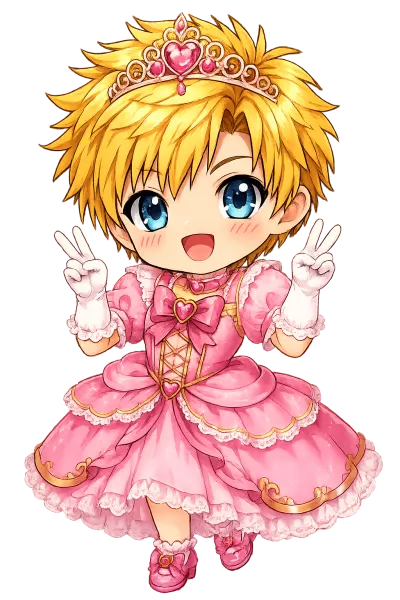
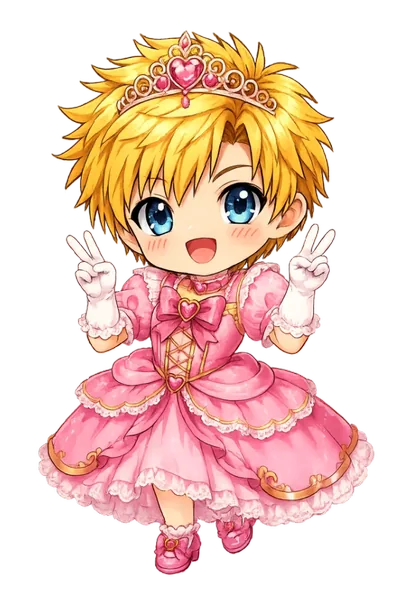
Character art pre-sized onto one 640x960 canvas (scripts/presize-art.mjs, sources and placements in artwork/forms/): the website drops its per-form CSS transforms; the Blobfish now fits inside the canvas (scale 1.1, was 1.18 and spilled past the left edge and top) and gets a 400w size like the other

diff --git a/public/index.html b/public/index.html
@@ -37,8 +37,8 @@
   var file = form === 'princess' ? 'princess-uwu' : form === 'blobfish' ? 'blobfish-mclosed-eopen' : 'tron-' + form + '-mclosed-eopen';
   window.__form = form;
   window.__formSrc = '/assets/img/' + file + '.webp';
-  // character art ships at 400w and 640w (the blobfish only has its native size)
-  window.__srcset = function (src) { return /blobfish/.test(src) ? '' : src.replace('.webp', '-400.webp') + ' 400w, ' + src + ' 640w'; };
+  // character art ships at 400w and 640w, every form pre-sized onto the same canvas (scripts/presize-art.mjs)
+  window.__srcset = function (src) { return src.replace('.webp', '-400.webp') + ' 400w, ' + src + ' 640w'; };
   window.__sizes = '(max-width: 860px) 50vw, 420px';
   var root = document.documentElement, link = document.createElement('link');
   root.classList.add('js');
@@ -233,12 +233,8 @@ h1 .l2::after  { color: #22e5ff; animation: glitch-b 7s infinite steps(1); }
 /* form switch: ~240ms of horizontal slices mixing the old and new character, with a red/cyan split */
 .glitch { position: absolute; inset: 0; display: none; pointer-events: none; }
 .tuber.glitching img { opacity: 0 !important; }
-/* The artwork files aren't drawn at the same scale, so each is nudged to match Tron: Trina fills more of her
-   canvas (scaled down); the blobfish is drawn smaller and sits low and right because its rod and catch take the
-   left of the image. Matched on head width, head top and head centre (measured ignoring the thin rod). */
-.tuber img, .glitch b { transform-origin: 50% 80%; }
-.tuber[data-art="princess"] img { transform: translate(.75%, -1.9%) scale(.937); }
-.tuber[data-art="blobfish"] img { transform: translate(-12.7%, -5.8%) scale(1.18); }
+/* No per-form sizing here: every form's art is pre-sized onto the same 640x960 canvas, matched to Tron's head
+   (scripts/presize-art.mjs, docs/design-system.md "Character sizing"), so any form drops straight in. */
 .tuber.glitching .glitch { display: block; }
 .glitch i { position: absolute; inset: 0; filter: drop-shadow(-3px 0 rgba(255,45,120,.75)) drop-shadow(3px 0 rgba(34,229,255,.75)); }
 .glitch b { position: absolute; inset: 0; background: no-repeat 50% 80% / contain; }
@@ -545,7 +541,7 @@ footer { position: relative; margin-top: 3rem; border-top: 1px solid var(--a20);
         <div class="pad" aria-hidden="true"></div>
         <button class="tuber s-co" id="tuber" aria-label="Poke Tron">
           <img data-s="co" id="hero-img" width="640" height="960" alt="Trongates Legacy chibi avatar" fetchpriority="high">
-          <script>(function (i) { i.sizes = window.__sizes; i.srcset = window.__srcset(window.__formSrc); i.src = window.__formSrc; i.parentNode.dataset.art = window.__form === 'princess' || window.__form === 'blobfish' ? window.__form : 'tron'; })(document.getElementById('hero-img'));</script>
+          <script>(function (i) { i.sizes = window.__sizes; i.srcset = window.__srcset(window.__formSrc); i.src = window.__formSrc; })(document.getElementById('hero-img'));</script>
           <noscript><img src="/assets/img/tron-cyan-mclosed-eopen.webp" width="640" height="960" alt="" style="opacity:1"></noscript>
           <img data-s="cc" alt="" width="640" height="960" decoding="sync">
           <img data-s="oo" alt="" width="640" height="960" decoding="sync">
@@ -660,8 +656,8 @@ footer { position: relative; margin-top: 3rem; border-top: 1px solid var(--a20);
       <article class="card reveal" style="--c:#ffb36b;--d:2" data-card="blobfish" tabindex="0">
         <span class="card-no" aria-hidden="true">03</span>
         <div class="card-art">
-          <img class="base" src="/assets/img/blobfish-mclosed-eopen.webp" width="456" height="567" loading="lazy" decoding="async" alt="A blobfish in a fishing hat and vest, holding a rod with Princess Trina dangling from the hook">
-          <img class="alt" data-src="/assets/img/blobfish-mopen-eopen.webp" width="456" height="567" decoding="async" alt="">
+          <img class="base" src="/assets/img/blobfish-mclosed-eopen.webp" srcset="/assets/img/blobfish-mclosed-eopen-400.webp 400w, /assets/img/blobfish-mclosed-eopen.webp 640w" sizes="(max-width: 900px) 45vw, 250px" width="640" height="960" loading="lazy" decoding="async" alt="A blobfish in a fishing hat and vest, holding a rod with Princess Trina dangling from the hook">
+          <img class="alt" data-src="/assets/img/blobfish-mopen-eopen.webp" width="640" height="960" decoding="async" alt="">
         </div>
         <div class="card-body">
           <span class="tag">Gone fishing</span>
@@ -825,16 +821,14 @@ const boot = () => {
   let switchId = 0;
   // Four quick steps of slices, each showing more of the new form, then the clean swap.
   const glitchEl = $('#glitch');
-  const artOf = (form) => (form === 'princess' || form === 'blobfish' ? form : 'tron');
-  const ART_T = { tron: 'none', princess: 'translate(.75%, -1.9%) scale(.937)', blobfish: 'translate(-12.7%, -5.8%) scale(1.18)' };
   async function glitchSwap(from, to, id) {
     glitchOn = true; tuber.classList.add('glitching');
     for (const p of [.25, .5, .75, .92]) {
       let html = '', y = 0;
       while (y < 100) {
         const h = 10 + Math.random() * 16, dx = (Math.random() - .5) * 26;
-        const [src, art] = Math.random() < p ? to : from;
-        html += `<i style="clip-path:inset(${y.toFixed(1)}% 0 ${Math.max(0, 100 - y - h).toFixed(1)}% 0);transform:translateX(${dx.toFixed(1)}px)"><b style="background-image:url('${src}');transform:${ART_T[art]}"></b></i>`;
+        const src = Math.random() < p ? to : from;
+        html += `<i style="clip-path:inset(${y.toFixed(1)}% 0 ${Math.max(0, 100 - y - h).toFixed(1)}% 0);transform:translateX(${dx.toFixed(1)}px)"><b style="background-image:url('${src}')"></b></i>`;
         y += h;
       }
       glitchEl.innerHTML = html;
@@ -847,7 +841,7 @@ const boot = () => {
   async function setTheme(next) {
     if (next === theme) return;
     const id = ++switchId;
-    const from = [tuberImgs[tuber.className.match(/s-(..)/)[1]].currentSrc || tuberImgs.co.currentSrc, tuber.dataset.art];
+    const from = tuberImgs[tuber.className.match(/s-(..)/)[1]].currentSrc || tuberImgs.co.currentSrc;
     theme = next;
     root.dataset.theme = next;
     root.classList.remove('no-pick');
@@ -860,14 +854,13 @@ const boot = () => {
     await next0.decode().catch(() => {});
     if (id !== switchId) return;                  // a newer pick overtook this one
     if (!reduced) {
-      await glitchSwap(from, [next0.currentSrc || next0.src, artOf(next)], id);
+      await glitchSwap(from, next0.currentSrc || next0.src, id);
       if (id !== switchId) return;
     }
     const idle = Object.keys(STATES).map((s, i) => setFrame(s, srcs[i]))[0];
     // keep the last glitch frame up until the new idle pose is ready, or the old one flashes back
     await Promise.race([idle, new Promise((r) => setTimeout(r, 1500))]);
     if (id !== switchId) return;
-    tuber.dataset.art = artOf(next);              // the size adjustment moves with the artwork, not the theme
     mouth = 'c'; render();
     endGlitch();
     speak();
